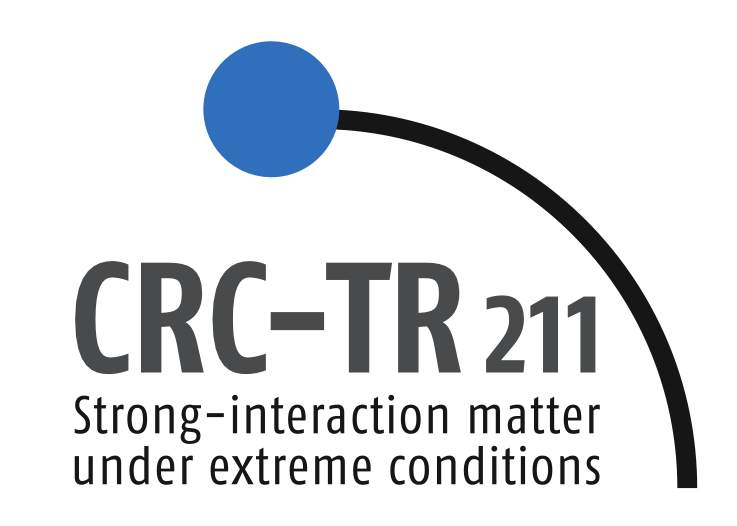
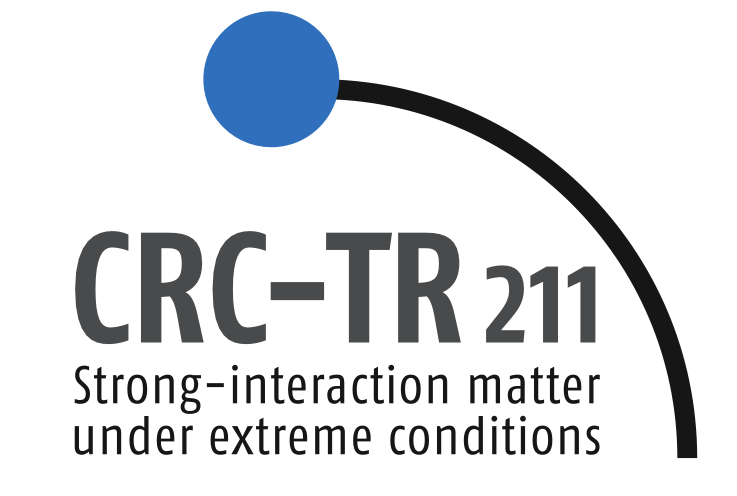
Update projects page: reorder entries, improve descriptions, switch to 2-column grid layout
- Reorder projects to highlight Emmy Noether grant first
- Expand and improve project descriptions with more specific details
- Update CRC-TR 211 description to focus on Project A02
- Simplify ALPS description and add links to all editions
- Switch from featured/more sections to unified 2-column grid
- Update card styling to support equal-height cards in grid layout
- Change card images from cover to contain for better display
- Refresh all project images

diff --git a/_styles/card.scss b/_styles/card.scss
@@ -2,11 +2,11 @@
 ---
 
 .card {
-  display: inline-flex;
+  display: flex;
   justify-content: stretch;
-  align-items: center;
+  align-items: stretch;
   flex-direction: column;
-  width: 350px;
+  width: 450px;
   max-width: calc(100% - 20px - 20px);
   margin: 20px;
   background: var(--background);
@@ -16,25 +16,35 @@
   vertical-align: top;
 }
 
+/* When cards are in a grid, make them equal height and remove fixed width */
+.grid .card {
+  width: 100%;
+  max-width: 100%;
+  margin: 0;
+  height: 100%;
+}
+
 .card[data-style="small"] {
   width: 250px;
 }
 
 .card-image img {
   aspect-ratio: 3 / 2;
-  object-fit: cover;
+  object-fit: contain;
   width: 100%;
+  background: var(--background);
   // box-shadow: var(--shadow);
 }
 
 .card-text {
-  display: inline-flex;
+  display: flex;
   justify-content: flex-start;
   align-items: center;
   flex-direction: column;
   gap: 20px;
   max-width: 100%;
   padding: 20px;
+  flex-grow: 1;
 }
 
 .card-text > * {

diff --git a/projects/index.md b/projects/index.md
@@ -7,10 +7,9 @@ nav:
 
 # {% include icon.html icon="fa-solid fa-diagram-project" %}Projects
 
-Our group develops computational tools, educational programs, and collaborative
-research initiatives to advance quantum information theory and real-time quantum
-field evolution. All projects support open science and reproducible research in
-theoretical physics and quantum computing.
+Our research group contributes to multiple long-term projects spanning
+research and education. Featured below are project highlights with links
+to external resources and collaborations.
 
 {% include tags.html tags="software, education, research-program, collaboration" %}
 
@@ -18,12 +17,6 @@ theoretical physics and quantum computing.
 
 {% include section.html %}
 
-## Featured
-
-{% include list.html component="card" data="projects" filter="group == 'featured'" %}
-
-{% include section.html %}
-
-## More
-
-{% include list.html component="card" data="projects" filter="!group" style="small" %}
+<div class="grid" style="--repeat: 2;">
+{% include list.html component="card" data="projects" %}
+</div>
